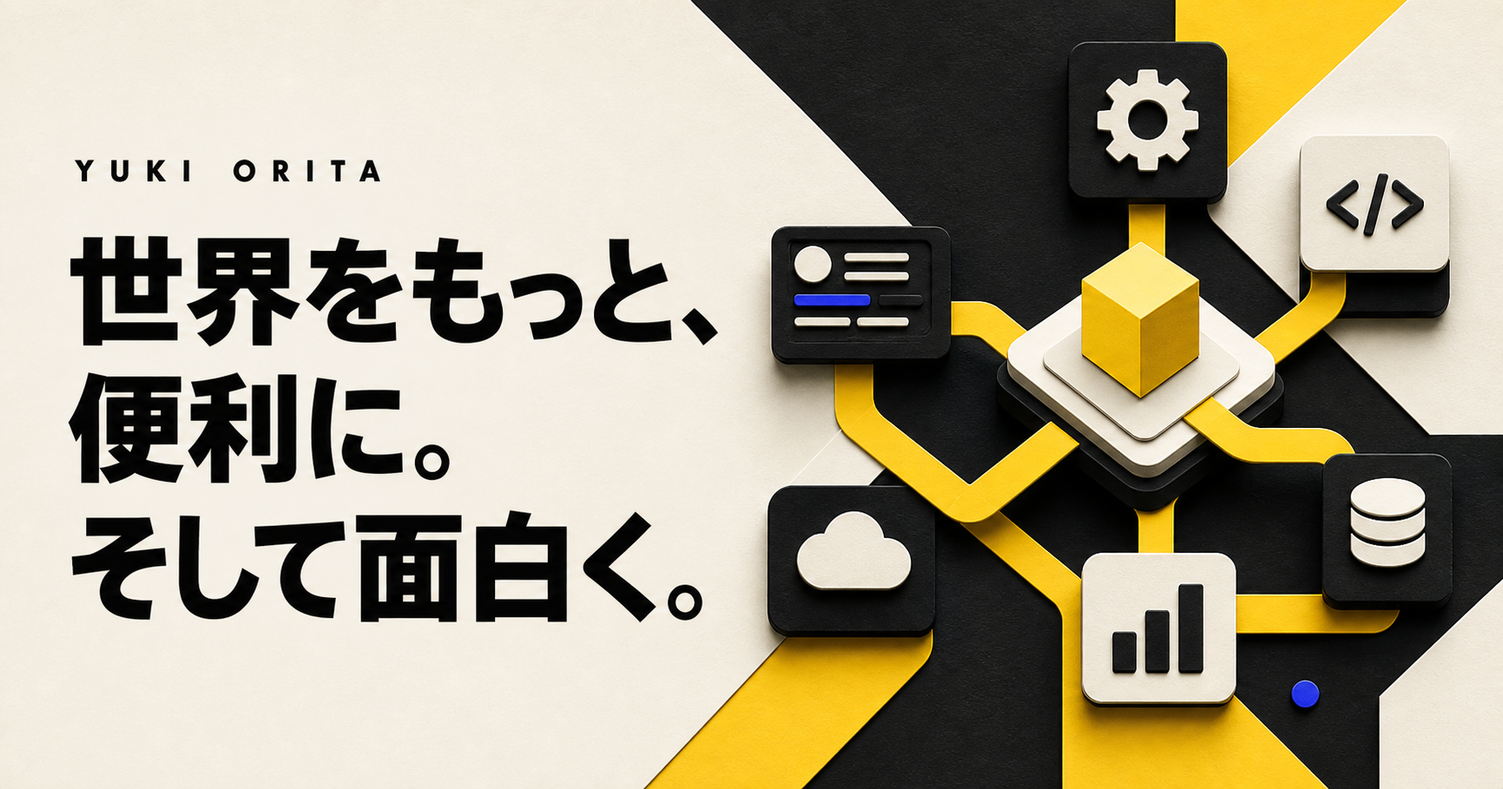
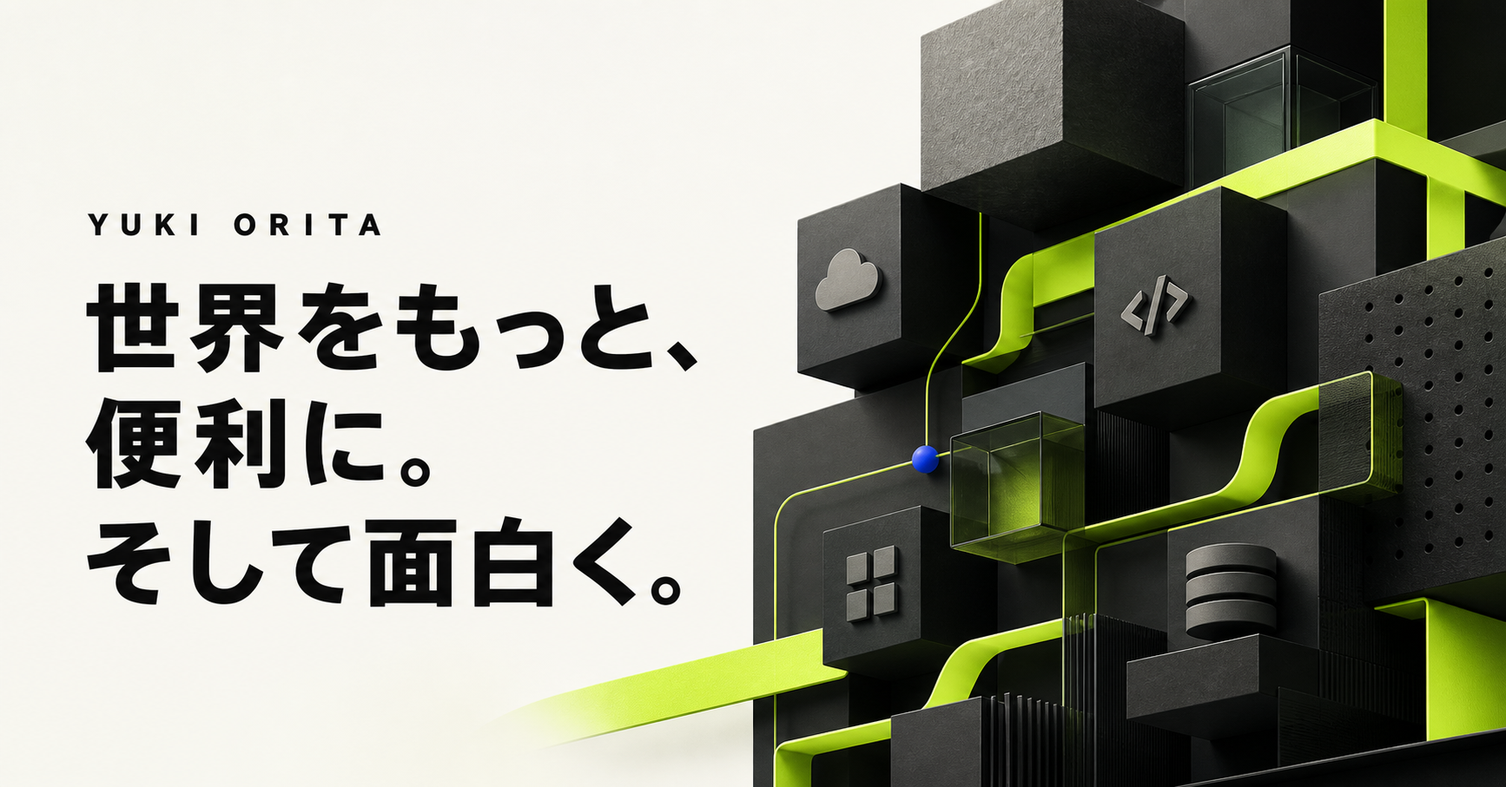
Add dark mode and localized lime theme

diff --git a/website/styles.css b/website/styles.css
@@ -1,6 +1,6 @@
-:root{--paper:#f2efe5;--ink:#151511;--yellow:#ffd21c;--blue:#315dff;--green:#8be04e;--line:rgba(21,21,17,.2);--pad:clamp(22px,4.2vw,68px)}
+:root{color-scheme:light dark;--paper:#f5f6f0;--ink:#151714;--yellow:#b8ff2c;--blue:#4c67ff;--green:#79d94b;--line:rgba(21,23,20,.2);--pad:clamp(22px,4.2vw,68px)}
 *{box-sizing:border-box}html{scroll-behavior:smooth;overflow-x:clip}body{margin:0;background:var(--paper);color:var(--ink);font-family:Arial,"Hiragino Kaku Gothic ProN","Yu Gothic",sans-serif;font-weight:600;letter-spacing:.01em;overflow-x:clip}a{color:inherit;text-decoration:none}img{max-width:100%;display:block}button{font:inherit}.section-pad{padding-left:var(--pad);padding-right:var(--pad)}
-.intro{position:fixed;inset:0;z-index:1000;background:white;display:grid;place-items:center;animation:intro-out .75s 2.3s forwards}.intro-logo{position:absolute;width:min(560px,72vw);filter:grayscale(1);opacity:0;animation:logo-in .8s .15s both}.intro-logo-en{animation:logo-en 1.2s .9s both}@keyframes logo-in{from{opacity:0;transform:translateY(70px);filter:blur(12px) grayscale(1)}to{opacity:1;transform:none;filter:blur(0) grayscale(1)}}@keyframes logo-en{0%{opacity:0;transform:translateY(35px)}35%,100%{opacity:1;transform:none}}@keyframes intro-out{to{opacity:0;visibility:hidden;pointer-events:none}}
+.intro{position:fixed;inset:0;z-index:1000;background:var(--paper);display:grid;place-items:center;opacity:1;visibility:visible;pointer-events:auto}.intro-light-brand{display:flex;align-items:center;gap:18px;opacity:0;transform:scale(.68)}.intro-light-brand span{width:72px;height:72px;border-radius:50%;background:var(--yellow);border:3px solid var(--ink);display:grid;place-items:center;font-size:19px;font-weight:900}.intro-light-brand strong{font-size:clamp(22px,4vw,52px);letter-spacing:.2em}.intro-dark-logo{display:none;width:min(620px,78vw);opacity:0;transform:scale(.68);mix-blend-mode:screen}.intro.is-running{animation:introDismiss .58s 1.9s cubic-bezier(.7,0,1,1) both}.intro.is-running .intro-light-brand{animation:introGrow 1.15s .12s cubic-bezier(.16,1,.3,1) both}.intro.is-finished{opacity:0;visibility:hidden;pointer-events:none}.intro-lock{overflow:hidden}@keyframes introGrow{0%{opacity:0;transform:scale(.68)}60%{opacity:1;transform:scale(1.045)}100%{opacity:1;transform:scale(1)}}@keyframes introDismiss{from{opacity:1}to{opacity:0;visibility:hidden;pointer-events:none}}
 .site-header{height:76px;padding:0 var(--pad);display:grid;grid-template-columns:1fr auto 1fr;align-items:center;gap:24px;border-bottom:1px solid var(--line);position:sticky;top:0;z-index:50;background:rgba(242,239,229,.93);backdrop-filter:blur(14px);transition:.25s}.site-header.scrolled{height:64px}.brand{display:inline-flex;align-items:center;gap:12px;font-weight:900;font-size:13px;letter-spacing:.17em;width:max-content}.brand-mark{width:40px;height:40px;display:grid;place-items:center;background:var(--yellow);border:2px solid var(--ink);border-radius:50%;font-size:12px;letter-spacing:-.05em}.site-header nav{display:flex;gap:clamp(18px,4vw,54px);font-size:12px}.site-header nav a{padding:8px 0;border-bottom:2px solid transparent}.site-header nav a:hover{border-color:var(--ink)}.pill{padding:13px 22px;border-radius:999px;font-size:12px}.pill-dark{background:var(--ink);color:white}.header-cta{justify-self:end}
 .hero{min-height:calc(100vh - 76px);display:grid;grid-template-columns:1.08fr 1fr;border-bottom:1px solid var(--ink)}.hero-copy{padding:clamp(70px,9vw,140px) var(--pad) 45px;display:flex;flex-direction:column;justify-content:center}.eyebrow{font-size:11px;letter-spacing:.19em;font-weight:900;display:flex;align-items:center;gap:12px}.eyebrow span{width:38px;border-top:3px solid var(--yellow)}.hero h1,.profile-title h1{font-size:clamp(46px,6.3vw,100px);line-height:.98;letter-spacing:-.075em;margin:30px 0 36px;font-weight:900}.hero h1 em,.profile-title h1 em,.projects h2 em,.closing h2 em{font-style:normal;color:transparent;-webkit-text-stroke:1.5px var(--ink)}.hero-lead{font-size:clamp(15px,1.25vw,20px);line-height:2}.hero-actions{display:flex;gap:28px;align-items:center;margin:30px 0 50px}.button{min-width:210px;padding:18px 24px;border:2px solid var(--ink);display:inline-flex;justify-content:space-between;align-items:center;font-size:13px;font-weight:900}.button-yellow{background:var(--yellow);box-shadow:6px 6px 0 var(--ink)}.button:hover{transform:translate(-2px,-2px);box-shadow:9px 9px 0 var(--ink)}.text-link{border-bottom:1px solid;padding:12px 0;font-size:13px}.hero-meta{display:flex;gap:42px;margin:auto 0 0}.hero-meta div{border-left:1px solid var(--line);padding-left:13px}.hero-meta dt{font-size:9px;letter-spacing:.16em}.hero-meta dd{margin:5px 0 0;font-size:12px}.hero-visual{position:relative;overflow:hidden;background:var(--yellow);min-height:680px}.hero-visual:before{content:"";position:absolute;width:55%;aspect-ratio:1;border:1px solid rgba(21,21,17,.35);border-radius:50%;top:-16%;right:-16%;z-index:1}.hero-visual img{width:100%;height:100%;object-fit:cover;filter:contrast(1.12);mix-blend-mode:multiply}.floating-card{position:absolute;background:var(--paper);border:2px solid var(--ink);padding:16px;box-shadow:8px 8px 0 var(--ink);z-index:2}.float-one{left:5%;top:11%;display:grid;grid-template-columns:auto 1fr;column-gap:10px}.float-one small{grid-column:2;color:#777;margin-top:5px}.status-dot{width:13px;height:13px;border-radius:50%;background:var(--yellow);border:1px solid;grid-row:1/3}.float-two{right:5%;bottom:8%;background:var(--yellow);transform:rotate(3deg)}.float-two b{font-size:38px;display:block}.float-two span{font-size:10px;letter-spacing:.14em}.ticker{background:var(--ink);color:var(--yellow);overflow:hidden;padding:14px 0;white-space:nowrap;font-size:11px;letter-spacing:.2em}.ticker div{animation:ticker 20s linear infinite}@keyframes ticker{to{transform:translateX(-50%)}}
 .jump-grid{display:grid;grid-template-columns:2fr 1fr 1fr;gap:2px;background:var(--ink);padding-top:90px;padding-bottom:110px}.jump-card{min-height:530px;position:relative;overflow:hidden;background:var(--paper);color:white}.jump-card:after{content:"";position:absolute;inset:0;background:linear-gradient(transparent 25%,rgba(0,0,0,.88))}.jump-card img{width:100%;height:100%;object-fit:cover;transition:.6s}.jump-card:hover img{transform:scale(1.04)}.jump-card>div{position:absolute;z-index:2;inset:auto 28px 28px}.jump-card p{font-size:10px;letter-spacing:.16em}.jump-card h2{font-size:clamp(25px,2.2vw,42px);line-height:1.16;margin:12px 0}.jump-no{position:absolute;z-index:3;top:22px;left:24px;border:1px solid white;border-radius:50%;width:42px;height:42px;display:grid;place-items:center;font-size:11px}.round-arrow{position:absolute;right:0;bottom:0;width:48px;height:48px;background:var(--yellow);color:var(--ink);border-radius:50%;display:grid;place-items:center}.jump-profile img{filter:grayscale(1) contrast(1.05)}.jump-news img{filter:saturate(.85)}
@@ -15,3 +15,23 @@
 @media(max-width:900px){.site-header{grid-template-columns:1fr auto}.site-header nav{display:none}.hero{grid-template-columns:1fr}.hero-copy{min-height:calc(100svh - 76px)}.hero-visual{min-height:70svh}.jump-grid{grid-template-columns:1fr 1fr}.jump-article{grid-column:1/-1}.projects-head{grid-template-columns:1fr;gap:20px}.project-grid{grid-template-columns:repeat(2,1fr)}.news-layout{grid-template-columns:1fr}.news-layout>img{max-width:420px}.profile-hero{grid-template-columns:1fr}.profile-statement{grid-template-columns:1fr}.profile-method{grid-template-columns:1fr}.social-strip{grid-template-columns:1fr}.social-strip a{border-left:0;border-top:1px solid}.facts-grid{grid-template-columns:1fr 1fr}.news-hero{grid-template-columns:1fr;padding-top:80px;padding-bottom:90px}.news-hero-art{max-width:620px}.news-contact{align-items:flex-start;flex-direction:column}}
 @media(max-width:600px){.site-header{height:64px}.brand span:last-child{display:none}.brand-mark{width:36px;height:36px}.header-cta{padding:11px 16px}.hero h1{font-size:46px}.hero-actions{align-items:flex-start;flex-direction:column}.hero-meta{gap:14px;justify-content:space-between}.hero-meta div{padding-left:8px}.hero-visual{min-height:560px}.jump-grid{grid-template-columns:1fr;padding-top:60px;padding-bottom:70px}.jump-article{grid-column:auto}.jump-card{min-height:440px}.projects-art{height:70vw}.project-grid{grid-template-columns:1fr}.project-card{min-height:290px}.projects-head{padding-top:70px}.news-layout>*{min-width:0}.news-layout>img,.news-list{width:100%;max-width:100%}.news-list article{grid-template-columns:68px 48px minmax(0,1fr) 26px;gap:7px}.news-list article p{display:none}.facts-grid{grid-template-columns:1fr}.fact-wide{grid-column:auto}.site-footer{align-items:flex-start;flex-direction:column;padding-top:55px;padding-bottom:55px}.social-strip{padding-left:0;padding-right:0}.profile-hero{padding-top:60px}.profile-title h1{font-size:52px}.profile-method{padding-top:80px;padding-bottom:85px}.news-hero{min-height:auto;padding-top:65px}.news-hero h1{font-size:54px}.archive-head{align-items:flex-start;flex-direction:column}.news-filters{width:100%}.news-filters button{flex:1}.news-list-full article{padding:27px 0}.news-contact{padding-top:70px;padding-bottom:75px}}
 @media(prefers-reduced-motion:reduce){*{scroll-behavior:auto!important;animation-duration:.01ms!important;animation-iteration-count:1!important;transition-duration:.01ms!important}.intro{display:none}.reveal{opacity:1;transform:none}}
+
+/* Lime system, language indicator, and theme-aware imagery */
+.header-tools{justify-self:end;display:flex;align-items:center;gap:12px}.locale-indicator{min-width:34px;height:34px;border:1px solid var(--ink);border-radius:999px;display:grid;place-items:center;font-size:9px;letter-spacing:.12em}.button-lime{background:var(--yellow);color:var(--ink);box-shadow:6px 6px 0 var(--ink)}.project-lime{background:var(--yellow)!important;color:var(--ink)!important}.projects-art picture{display:block;width:100%;height:100%}.projects-art picture img{width:100%;height:100%;object-fit:cover}.jump-article img{filter:hue-rotate(42deg) saturate(1.2)}
+.intro-dark-logo{-webkit-mask-image:radial-gradient(ellipse at center,#000 48%,rgba(0,0,0,.94) 61%,transparent 84%);mask-image:radial-gradient(ellipse at center,#000 48%,rgba(0,0,0,.94) 61%,transparent 84%)}
+html[lang="pt"] .hero h1{font-size:clamp(42px,5.3vw,84px)}html[lang="en"] .hero h1{font-size:clamp(44px,5.8vw,90px)}
+
+@media(prefers-color-scheme:dark){
+  body{background:#0d100d;color:#eef3e8}.intro{background:#080a08}.intro-light-brand{display:none}.intro-dark-logo{display:block}.intro.is-running .intro-dark-logo{animation:introGrow 1.15s .12s cubic-bezier(.16,1,.3,1) both}
+  .site-header{background:rgba(13,16,13,.92);border-color:rgba(238,243,232,.2)}.site-header nav a:hover{border-color:#eef3e8}.locale-indicator{border-color:#eef3e8}.pill-dark{background:var(--yellow);color:var(--ink)}
+  .hero{border-color:rgba(238,243,232,.6)}.hero h1 em,.profile-title h1 em,.closing h2 em{ -webkit-text-stroke-color:#eef3e8}.hero-meta div{border-color:rgba(238,243,232,.2)}.hero-visual{background:var(--yellow)}.floating-card{background:#151a14;color:#eef3e8;border-color:#eef3e8;box-shadow:8px 8px 0 #080a08}.float-one small{color:#b7beb2}.float-two{background:var(--yellow);color:var(--ink);border-color:var(--ink)}
+  .jump-grid{background:#070907}.jump-card{background:#151a14}.jump-article img{filter:hue-rotate(42deg) saturate(1.15) brightness(.78)}
+  .projects{background:#080a08}.projects-head>p{color:#b7beb2}.project-grid{background:#354032}.project-paper{background:#171c16!important;color:#eef3e8!important}.project-card:hover{box-shadow:0 16px 0 var(--yellow)}
+  .news{background:#10140f}.news-layout>img{border-color:#eef3e8}.news-list{border-color:#eef3e8}.news-list article{border-color:rgba(238,243,232,.2)}.news-list article p{color:#b7beb2}.news-more{border-color:rgba(238,243,232,.45)}
+  #dialog-content{background:#121612;color:#eef3e8;border-color:#eef3e8;box-shadow:14px 14px 0 var(--yellow)}.dialog-close{color:#eef3e8}
+  .profile-hero{border-color:#eef3e8}.profile-facts{background:#080a08}.fact{background:#151a14}.fact-wide{background:var(--yellow);color:var(--ink)}.profile-statement>p{color:#eef3e8}.profile-method{background:#0d100d}.method-list{border-color:#eef3e8}.method-list li{border-color:rgba(238,243,232,.2)}.method-list p{color:#b7beb2}
+  .news-hero{border-color:#eef3e8}.news-hero h1 em{-webkit-text-stroke-color:#eef3e8}.news-archive{background:#0d100d}.news-filters button{color:#eef3e8;border-color:#eef3e8}.news-filters button.active,.news-filters button:hover{background:var(--yellow);color:var(--ink)}.news-contact{background:#1b2417}
+  .site-footer{background:#070907}.button{border-color:var(--ink)}
+}
+
+@media(max-width:600px){.header-tools{gap:7px}.locale-indicator{min-width:30px;height:30px}.intro-light-brand{gap:12px}.intro-light-brand span{width:56px;height:56px}.intro-light-brand strong{font-size:20px;letter-spacing:.13em}html[lang="pt"] .hero h1{font-size:39px}html[lang="en"] .hero h1{font-size:42px}}

diff --git a/website/i18n.js b/website/i18n.js
@@ -1,0 +1,63 @@
+(function () {
+  const supported = ['ja', 'en', 'zh', 'pt'];
+  const requested = new URLSearchParams(location.search).get('lang')?.toLowerCase().split('-')[0];
+  const detected = (supported.includes(requested) ? requested : (navigator.languages || [navigator.language || 'en'])
+    .map(value => value.toLowerCase().split('-')[0])
+    .find(value => supported.includes(value))) || 'en';
+  window.SITE_LANG = detected;
+  window.siteText = value => typeof value === 'string' ? value : (value?.[window.SITE_LANG] || value?.en || value?.ja || '');
+
+  const common = {
+    ja:['Projects','News','Profile','Home ←'], en:['Projects','News','Profile','Home ←'],
+    zh:['项目','动态','简介','首页 ←'], pt:['Projetos','Notícias','Perfil','Início ←']
+  };
+  const pages = {
+    home:{
+      ja:{hero:'世界をもっと、<em>便利に。</em><br>そして面白く。',lead:'誰もがその便利さ、面白さにふれる機会があるように。<br>そんな世界を目指して、開発をしています。',projects:'プロジェクトを見る <span>→</span>',profile:'プロフィール <span>↘</span>',j:['考えたことを、<br>言葉にする。','作っている人を、<br>もっと知る。','新しい動きを、<br>ここから。'],ptitle:'つくったもの、<br><em>育てているもの。</em>',plead:'音楽、学習、AI、ファイル管理。日常の小さな不便を見つけ、使える形までつくります。カードを選ぶと詳細が開きます。',news:'お知らせ',all:'すべてのお知らせを見る <span>→</span>',closing:'次の「便利」と「面白い」を、<br><em>つくり続ける。</em>'},
+      en:{hero:'Make the world more <em>useful.</em><br>And more interesting.',lead:'I build so that everyone has a chance to experience<br>what technology can make easier and more fun.',projects:'View projects <span>→</span>',profile:'Profile <span>↘</span>',j:['Turning ideas<br>into words.','Meet the person<br>behind the work.','Follow what is<br>happening now.'],ptitle:'Things I made.<br><em>Things I keep growing.</em>',plead:'Music, learning, AI, and file management. I find small everyday frictions and turn them into products you can actually use.',news:'News',all:'View all news <span>→</span>',closing:'Keep building the next<br><em>useful and interesting thing.</em>'},
+      zh:{hero:'让世界更<em>便利。</em><br>也更有趣。',lead:'让每个人都有机会感受到科技带来的便利与乐趣。<br>我正朝着这样的世界持续开发。',projects:'查看项目 <span>→</span>',profile:'个人简介 <span>↘</span>',j:['把思考，<br>写成文字。','认识作品<br>背后的开发者。','从这里了解<br>最新动态。'],ptitle:'已经完成的，<br><em>持续成长的。</em>',plead:'音乐、学习、AI 与文件管理。我从日常的小麻烦出发，把想法做成真正可用的产品。',news:'最新动态',all:'查看全部动态 <span>→</span>',closing:'继续创造下一个<br><em>便利与有趣。</em>'},
+      pt:{hero:'Um mundo mais <em>prático.</em><br>E mais interessante.',lead:'Desenvolvo para que todos possam experimentar<br>mais praticidade e diversão através da tecnologia.',projects:'Ver projetos <span>→</span>',profile:'Perfil <span>↘</span>',j:['Transformando ideias<br>em palavras.','Conheça quem está<br>por trás dos projetos.','Acompanhe as<br>novidades por aqui.'],ptitle:'O que criei.<br><em>O que continuo melhorando.</em>',plead:'Música, aprendizado, IA e arquivos. Encontro pequenos atritos do cotidiano e os transformo em produtos úteis.',news:'Notícias',all:'Ver todas as notícias <span>→</span>',closing:'Continuar criando o próximo<br><em>prático e interessante.</em>'}
+    },
+    profile:{
+      ja:{title:'好奇心を、<br><em>動くものに。</em>',lead:'日常で感じた不便や「こうだったら面白い」を、アプリとして形にしています。',from:'広島県',favorite:'焼きそば',quote:'「新しい」は、遠くにあるものではなく、<em>手を動かした先にある。</em>',statement:'ソフトウェアが難しさを引き受け、人には便利さと面白さが残る。そんなプロダクトを、公開し、改善し続けます。',method:'小さく始めて、<br>使えるところまで。',steps:[['見つける','毎日の中の面倒や、まだ形になっていない面白さを見つけます。'],['つくる','まず動くものを作り、実際に使いながら必要な形へ整えます。'],['ひらく','できる限り公開し、フィードバックとともに改善を続けます。']]},
+      en:{title:'Turn curiosity<br><em>into something real.</em>',lead:'I turn everyday friction and “what if this were more fun?” into working apps.',from:'Hiroshima, Japan',favorite:'Yakisoba',quote:'“New” is not far away.<br><em>It appears when you start building.</em>',statement:'Software should carry the complexity so people are left with usefulness and delight. I publish, learn, and keep improving.',method:'Start small.<br>Build until it is useful.',steps:[['Notice','Find everyday friction and interesting ideas that have not yet taken shape.'],['Build','Make the smallest working version, use it, and shape what truly matters.'],['Open','Share whenever possible, listen to feedback, and keep improving.']]},
+      zh:{title:'把好奇心，<br><em>变成可以使用的东西。</em>',lead:'我把日常中的不便与“这样会不会更有趣”做成真正可用的应用。',from:'日本广岛县',favorite:'日式炒面',quote:'“新”并不遥远，<br><em>它就在动手之后。</em>',statement:'让软件承担复杂，把便利与乐趣留给人。我会公开作品，并不断改进。',method:'从小处开始，<br>做到真正可用。',steps:[['发现','发现日常的不便，以及还没有成形的有趣想法。'],['制作','先做出能运行的版本，在实际使用中找到真正重要的部分。'],['开放','尽可能公开，并根据反馈持续改进。']]},
+      pt:{title:'Transformar curiosidade<br><em>em algo que funciona.</em>',lead:'Transformo incômodos do dia a dia e ideias interessantes em aplicativos reais.',from:'Hiroshima, Japão',favorite:'Yakisoba',quote:'O “novo” não está longe.<br><em>Ele aparece quando começamos a criar.</em>',statement:'O software deve carregar a complexidade e deixar praticidade e encanto para as pessoas. Publico, aprendo e continuo melhorando.',method:'Começar pequeno.<br>Construir até ser útil.',steps:[['Perceber','Encontrar atritos do cotidiano e ideias interessantes que ainda não ganharam forma.'],['Criar','Fazer uma versão funcional, usar e lapidar o que realmente importa.'],['Abrir','Compartilhar quando possível, ouvir feedback e continuar melhorando.']]}
+    },
+    news:{
+      ja:{title:'新しい動きを、<br><em>ここから。</em>',lead:'アプリの公開、アップデート、サイトからのお知らせをまとめています。',archive:'すべてのお知らせ',empty:'該当するお知らせはありません。',contact:'最新の活動は、<br>Xでも発信しています。'},
+      en:{title:'What is new,<br><em>all in one place.</em>',lead:'Releases, product updates, and announcements from across my work.',archive:'All updates',empty:'No updates in this category.',contact:'Follow the latest work<br>on X as well.'},
+      zh:{title:'最新动态，<br><em>从这里开始。</em>',lead:'集中查看应用发布、产品更新与网站公告。',archive:'全部动态',empty:'此分类暂无动态。',contact:'也可以在 X 上<br>关注最新进展。'},
+      pt:{title:'Tudo o que há de novo,<br><em>em um só lugar.</em>',lead:'Lançamentos, atualizações de produtos e anúncios.',archive:'Todas as notícias',empty:'Nenhuma notícia nesta categoria.',contact:'Acompanhe as novidades<br>também no X.'}
+    }
+  };
+  const html=(s,v)=>{const n=document.querySelector(s);if(n&&v)n.innerHTML=v};
+  const text=(s,v)=>{const n=document.querySelector(s);if(n&&v)n.textContent=v};
+  const metadata={
+    home:{ja:['YO — YUKI ORITA','アプリ、記事、プロフィールをまとめた折田侑のホームページ。'],en:['YO — YUKI ORITA','Yuki Orita’s home for apps, articles, news, and profile.'],zh:['YO — YUKI ORITA','折田侑的应用、文章、动态与个人简介。'],pt:['YO — YUKI ORITA','Aplicativos, artigos, notícias e perfil de Yuki Orita.']},
+    profile:{ja:['Profile — YUKI ORITA','折田侑のプロフィールと、ものづくりへの考え方。'],en:['Profile — YUKI ORITA','Yuki Orita’s profile and approach to making useful products.'],zh:['个人简介 — YUKI ORITA','折田侑的个人简介与产品创作理念。'],pt:['Perfil — YUKI ORITA','Perfil de Yuki Orita e sua abordagem à criação de produtos.']},
+    news:{ja:['News — YUKI ORITA','アプリの公開、アップデート、サイトからのお知らせ。'],en:['News — YUKI ORITA','Product releases, updates, and announcements.'],zh:['动态 — YUKI ORITA','应用发布、产品更新与网站公告。'],pt:['Notícias — YUKI ORITA','Lançamentos, atualizações de produtos e anúncios.']}
+  };
+
+  function applyLanguage(lang=detected){
+    window.SITE_LANG=supported.includes(lang)?lang:detected;
+    document.documentElement.lang=window.SITE_LANG==='zh'?'zh-CN':window.SITE_LANG;
+    const c=common[window.SITE_LANG];
+    document.querySelectorAll('.site-header nav a').forEach((n,i)=>n.textContent=c[i]);
+    if(document.body.classList.contains('profile-page')||document.body.classList.contains('news-page')) text('.header-cta',c[3]);
+    text('[data-locale-indicator]',window.SITE_LANG.toUpperCase());
+    const page=document.body.classList.contains('profile-page')?'profile':document.body.classList.contains('news-page')?'news':'home';
+    const t=pages[page][window.SITE_LANG];
+    const meta=metadata[page][window.SITE_LANG];document.title=meta[0];document.querySelector('meta[name="description"]')?.setAttribute('content',meta[1]);
+    if(page==='home'){
+      html('.hero h1',t.hero);html('.hero-lead',t.lead);html('.hero-actions .button',t.projects);html('.hero-actions .text-link',t.profile);
+      document.querySelectorAll('.jump-card h2').forEach((n,i)=>n.innerHTML=t.j[i]);html('.projects-head h2',t.ptitle);text('.projects-head>p',t.plead);text('.section-title h2',t.news);html('.news-more',t.all);html('.closing h2',t.closing);
+    }else if(page==='profile'){
+      html('.profile-title h1',t.title);text('.profile-title>p:last-child',t.lead);text('.fact:nth-child(3) strong',t.from);text('.fact:nth-child(4) strong',t.favorite);html('.profile-statement blockquote',t.quote);text('.profile-statement>div p',t.statement);html('.method-title h2',t.method);
+      document.querySelectorAll('.method-list li').forEach((li,i)=>{li.querySelector('h3').textContent=t.steps[i][0];li.querySelector('p').textContent=t.steps[i][1]});
+    }else{html('.news-hero h1',t.title);text('.news-hero-copy>p:last-child',t.lead);text('.archive-head h2',t.archive);text('.news-empty',t.empty);html('.news-contact h2',t.contact)}
+    window.dispatchEvent(new CustomEvent('site-language-change',{detail:{lang:window.SITE_LANG}}));
+  }
+  window.applySiteLanguage=applyLanguage;
+  document.addEventListener('DOMContentLoaded',()=>applyLanguage(detected));
+})();

diff --git a/website/content.js b/website/content.js
@@ -1,25 +1,23 @@
-// サービスを追加するときは、この配列へ同じ形式の項目を追加してください。
-// name（名称）/ url / code（2文字）/ description（約26文字）/ platforms / color
+// サービスとお知らせは、各言語を同じ項目内にまとめて管理します。
 window.SITE_CONTENT = {
   projects: [
-    {name:'Awasero Music',url:'https://awasero-music.pages.dev/',code:'AM',description:'鼻歌を編集できる楽譜とMIDIへ変換。',platforms:['macOS'],color:'yellow'},
-    {name:'EasyRoo',url:'https://easyroo.pages.dev/',code:'ER',description:'ローカルLLMで日々の作業を自動実行。',platforms:['macOS'],color:'blue'},
-    {name:'Kizi',url:'https://kizi.pages.dev/',code:'KZ',description:'開発やAIについて発信する記事メディア。',platforms:['Web'],color:'paper'},
-    {name:'MCS Manager',url:'https://mcs-manager.pages.dev/',code:'MC',description:'Minecraftサーバーを一か所で管理。',platforms:['macOS'],color:'green'},
-    {name:'Media Master',url:'https://media-master-9o5.pages.dev/',code:'MM',description:'写真・音楽・書類を一つにまとめて管理。',platforms:['Android'],color:'blue'},
-    {name:'MLXBar',url:'https://mlx-bar.pages.dev/',code:'MX',description:'MacのローカルAIをメニューバーから。',platforms:['macOS'],color:'paper'},
-    {name:'Pine Chat',url:'https://pinechat.pages.dev/',code:'PC',description:'自立思考型のローカルAIエージェント。',platforms:['macOS'],color:'green'},
-    {name:'Tango pro',url:'https://tango-pro.pages.dev/',code:'TP',description:'自分のCSVで続けられる単語帳アプリ。',platforms:['Android','macOS'],color:'yellow'},
-    {name:'Vocello JP',url:'https://vocello-jp.pages.dev/',code:'VO',description:'Macで完結する日本語AI音声スタジオ。',platforms:['macOS'],color:'blue'},
-    {name:'Volume Routine',url:'https://volume-routine.pages.dev/',code:'VR',description:'時間とWi-FiでAndroid音量を自動化。',platforms:['Android'],color:'yellow'},
-    {name:'WAKARU',url:'https://wakaru.pages.dev/',code:'WK',description:'資料を根拠つきで「わかる」に変える。',platforms:['macOS'],color:'paper'}
+    {name:'Awasero Music',url:'https://awasero-music.pages.dev/',code:'AM',description:{ja:'鼻歌を編集できる楽譜とMIDIへ変換。',en:'Turn humming into editable scores and MIDI.',zh:'将哼唱转换为可编辑乐谱与 MIDI。',pt:'Transforme melodias cantadas em partituras e MIDI.'},platforms:['macOS'],color:'lime'},
+    {name:'EasyRoo',url:'https://easyroo.pages.dev/',code:'ER',description:{ja:'ローカルLLMで日々の作業を自動実行。',en:'Automate daily work with a local LLM.',zh:'使用本地 LLM 自动执行日常任务。',pt:'Automatize tarefas diárias com um LLM local.'},platforms:['macOS'],color:'blue'},
+    {name:'Kizi',url:'https://kizi.pages.dev/',code:'KZ',description:{ja:'開発やAIについて発信する記事メディア。',en:'Articles about software development and AI.',zh:'分享软件开发与 AI 的文章媒体。',pt:'Artigos sobre desenvolvimento e inteligência artificial.'},platforms:['Web'],color:'paper'},
+    {name:'MCS Manager',url:'https://mcs-manager.pages.dev/',code:'MC',description:{ja:'Minecraftサーバーを一か所で管理。',en:'Manage Minecraft servers from one place.',zh:'在一个界面管理 Minecraft 服务器。',pt:'Gerencie servidores de Minecraft em um só lugar.'},platforms:['macOS'],color:'green'},
+    {name:'Media Master',url:'https://media-master-9o5.pages.dev/',code:'MM',description:{ja:'写真・音楽・書類を一つにまとめて管理。',en:'Manage photos, music, and documents together.',zh:'统一管理照片、音乐与文档。',pt:'Gerencie fotos, músicas e documentos juntos.'},platforms:['Android'],color:'blue'},
+    {name:'MLXBar',url:'https://mlx-bar.pages.dev/',code:'MX',description:{ja:'MacのローカルAIをメニューバーから。',en:'Local AI for Mac, right from the menu bar.',zh:'从菜单栏使用 Mac 本地 AI。',pt:'IA local no Mac, direto pela barra de menus.'},platforms:['macOS'],color:'paper'},
+    {name:'Pine Chat',url:'https://pinechat.pages.dev/',code:'PC',description:{ja:'自立思考型のローカルAIエージェント。',en:'An autonomous local AI agent for macOS.',zh:'自主思考型本地 AI 智能体。',pt:'Um agente de IA local e autônomo.'},platforms:['macOS'],color:'green'},
+    {name:'Tango pro',url:'https://tango-pro.pages.dev/',code:'TP',description:{ja:'自分のCSVで続けられる単語帳アプリ。',en:'A vocabulary app built around your own CSV.',zh:'使用自己的 CSV 持续学习单词。',pt:'Um app de vocabulário feito para o seu CSV.'},platforms:['Android','macOS'],color:'lime'},
+    {name:'Vocello JP',url:'https://vocello-jp.pages.dev/',code:'VO',description:{ja:'Macで完結する日本語AI音声スタジオ。',en:'A Japanese AI voice studio that stays on Mac.',zh:'完全在 Mac 本地运行的日语 AI 语音工作室。',pt:'Estúdio de voz japonesa com IA, local no Mac.'},platforms:['macOS'],color:'blue'},
+    {name:'Volume Routine',url:'https://volume-routine.pages.dev/',code:'VR',description:{ja:'時間とWi-FiでAndroid音量を自動化。',en:'Automate Android volume by time and Wi-Fi.',zh:'按时间和 Wi-Fi 自动调整 Android 音量。',pt:'Automatize o volume do Android por hora e Wi-Fi.'},platforms:['Android'],color:'lime'},
+    {name:'WAKARU',url:'https://wakaru.pages.dev/',code:'WK',description:{ja:'資料を根拠つきで「わかる」に変える。',en:'Turn documents into cited understanding.',zh:'将资料转化为带有依据的理解。',pt:'Transforme documentos em entendimento com fontes.'},platforms:['macOS'],color:'paper'}
   ],
-  // お知らせは新しいものを上に追加してください。
   news: [
-    {date:'2026.08.19',tag:'SITE',title:'公式ポートフォリオを公開しました。',summary:'制作したアプリ、記事、プロフィールを一つの場所から見られる公式サイトを公開しました。'},
-    {date:'2026.08.18',tag:'APP',title:'Volume Routine v1.1.0 を公開しました。',summary:'時間とWi-FiをきっかけにAndroidの音量を自動調整する最新版です。',url:'https://volume-routine.pages.dev/'},
-    {date:'2026.08.17',tag:'APP',title:'EasyRoo v1.0 の配布を開始しました。',summary:'ローカルLLMを使って、決めた作業を決めた時間に進めるmacOSアプリです。',url:'https://easyroo.pages.dev/'},
-    {date:'2026.08.15',tag:'APP',title:'WAKARUの公式ページを公開しました。',summary:'PDFや音声、動画などの資料を、根拠つきで理解するためのローカルAIアシスタントです。',url:'https://wakaru.pages.dev/'},
-    {date:'2026.08.12',tag:'APP',title:'Tango pro v2.0.0 を公開しました。',summary:'CSVから単語帳を作り、4択とタイピングで学べるAndroid・macOSアプリです。',url:'https://tango-pro.pages.dev/'}
+    {date:'2026.08.19',tag:'SITE',title:{ja:'公式ポートフォリオを公開しました。',en:'The official portfolio is now live.',zh:'官方作品集网站已上线。',pt:'O portfólio oficial já está no ar.'},summary:{ja:'制作したアプリ、記事、プロフィールを一つの場所から見られる公式サイトを公開しました。',en:'A new home for my apps, articles, updates, and profile.',zh:'在一个网站中浏览我开发的应用、文章、动态与个人资料。',pt:'Um novo espaço para meus apps, artigos, novidades e perfil.'}},
+    {date:'2026.08.18',tag:'APP',title:{ja:'Volume Routine v1.1.0 を公開しました。',en:'Volume Routine v1.1.0 is available.',zh:'Volume Routine v1.1.0 已发布。',pt:'Volume Routine v1.1.0 está disponível.'},summary:{ja:'時間とWi-FiをきっかけにAndroidの音量を自動調整する最新版です。',en:'The latest release automates Android volume using time and Wi-Fi triggers.',zh:'通过时间与 Wi-Fi 条件自动调整 Android 音量。',pt:'Automatiza o volume do Android usando horário e Wi-Fi.'},url:'https://volume-routine.pages.dev/'},
+    {date:'2026.08.17',tag:'APP',title:{ja:'EasyRoo v1.0 の配布を開始しました。',en:'EasyRoo v1.0 is now available.',zh:'EasyRoo v1.0 现已发布。',pt:'EasyRoo v1.0 já está disponível.'},summary:{ja:'ローカルLLMを使って、決めた作業を決めた時間に進めるmacOSアプリです。',en:'A macOS app that runs scheduled workflows with a local LLM.',zh:'使用本地 LLM 按计划执行工作流的 macOS 应用。',pt:'Um app para macOS que executa rotinas com um LLM local.'},url:'https://easyroo.pages.dev/'},
+    {date:'2026.08.15',tag:'APP',title:{ja:'WAKARUの公式ページを公開しました。',en:'The WAKARU website is now live.',zh:'WAKARU 官方网站已上线。',pt:'O site oficial do WAKARU já está no ar.'},summary:{ja:'PDFや音声、動画などの資料を、根拠つきで理解するためのローカルAIアシスタントです。',en:'A local AI assistant for understanding PDFs, audio, video, and more with citations.',zh:'借助本地 AI 和引用依据理解 PDF、音频、视频等资料。',pt:'Assistente local de IA para entender PDFs, áudio e vídeo com citações.'},url:'https://wakaru.pages.dev/'},
+    {date:'2026.08.12',tag:'APP',title:{ja:'Tango pro v2.0.0 を公開しました。',en:'Tango pro v2.0.0 is available.',zh:'Tango pro v2.0.0 已发布。',pt:'Tango pro v2.0.0 está disponível.'},summary:{ja:'CSVから単語帳を作り、4択とタイピングで学べるAndroid・macOSアプリです。',en:'Build vocabulary books from CSV and study with multiple choice or typing.',zh:'从 CSV 创建单词本，并通过选择题或输入练习学习。',pt:'Crie vocabulários via CSV e estude com alternativas ou digitação.'},url:'https://tango-pro.pages.dev/'}
   ]
 };

diff --git a/website/app.js b/website/app.js
@@ -1,47 +1,84 @@
 const reduceMotion = matchMedia('(prefers-reduced-motion: reduce)').matches;
+const darkMode = matchMedia('(prefers-color-scheme: dark)');
 
-document.querySelectorAll('.reveal').forEach((el) => {
+function initIntro() {
+  const intro = document.querySelector('.intro');
+  if (!intro) return;
+  const finish = () => {
+    if (intro.dataset.finished) return;
+    intro.dataset.finished = 'true';
+    intro.classList.add('is-finished');
+    document.body.classList.remove('intro-lock');
+  };
+  if (reduceMotion) { finish(); return; }
+  document.body.classList.add('intro-lock');
+  const logo = intro.querySelector('[data-intro-dark-logo]');
+  if (logo) logo.src = ['ja','zh'].includes(window.SITE_LANG) ? 'logo-JP.jpg' : 'logo-EN.jpg';
+  const ready = darkMode.matches && logo ? Promise.race([logo.decode().catch(()=>{}), new Promise(r=>setTimeout(r,600))]) : Promise.resolve();
+  ready.then(() => requestAnimationFrame(() => requestAnimationFrame(() => intro.classList.add('is-running'))));
+  intro.addEventListener('animationend', event => { if (event.target === intro && event.animationName === 'introDismiss') finish(); });
+  setTimeout(finish, 2900);
+}
+initIntro();
+
+document.querySelectorAll('.reveal').forEach(el => {
   if (reduceMotion) return el.classList.add('visible');
   new IntersectionObserver(([entry], observer) => {
     if (entry.isIntersecting) { entry.target.classList.add('visible'); observer.disconnect(); }
-  }, { threshold: .12 }).observe(el);
+  }, {threshold:.12}).observe(el);
 });
 
+const labels = {
+  ja:{open:'OPEN ↗',project:'PROJECT',visit:'公式サイトへ',related:'関連ページを開く'},
+  en:{open:'OPEN ↗',project:'PROJECT',visit:'Visit website',related:'Open related page'},
+  zh:{open:'打开 ↗',project:'项目',visit:'访问官方网站',related:'打开相关页面'},
+  pt:{open:'ABRIR ↗',project:'PROJETO',visit:'Visitar site',related:'Abrir página relacionada'}
+};
+const label = key => labels[window.SITE_LANG || 'en'][key];
 const grid = document.querySelector('#project-grid');
 const dialog = document.querySelector('#project-dialog');
-if (grid && window.SITE_CONTENT) {
-  SITE_CONTENT.projects.forEach((project, index) => {
+
+function renderProjects() {
+  if (!grid || !window.SITE_CONTENT) return;
+  grid.innerHTML = '';
+  SITE_CONTENT.projects.forEach((project,index) => {
+    const description = window.siteText(project.description);
     const card = document.createElement('button');
     card.className = `project-card project-${project.color}`;
-    card.innerHTML = `<span class="project-count">${String(index + 1).padStart(2,'0')}</span><span class="project-icon">${project.code}</span><span class="project-name">${project.name}</span><span class="project-desc">${project.description}</span><span class="platforms">${project.platforms.map(p => `<i>${p}</i>`).join('')}</span><span class="project-open">OPEN ↗</span>`;
-    card.addEventListener('click', () => {
-      document.querySelector('#dialog-content').innerHTML = `<span class="dialog-icon project-${project.color}">${project.code}</span><p>PROJECT / ${String(index + 1).padStart(2,'0')}</p><h2>${project.name}</h2><p class="dialog-desc">${project.description}</p><div class="platforms">${project.platforms.map(p => `<i>${p}</i>`).join('')}</div><a class="button button-yellow" href="${project.url}" target="_blank" rel="noreferrer">公式サイトへ <span>↗</span></a>`;
+    card.innerHTML = `<span class="project-count">${String(index+1).padStart(2,'0')}</span><span class="project-icon">${project.code}</span><span class="project-name">${project.name}</span><span class="project-desc">${description}</span><span class="platforms">${project.platforms.map(p=>`<i>${p}</i>`).join('')}</span><span class="project-open">${label('open')}</span>`;
+    card.addEventListener('click',()=>{
+      document.querySelector('#dialog-content').innerHTML = `<span class="dialog-icon project-${project.color}">${project.code}</span><p>${label('project')} / ${String(index+1).padStart(2,'0')}</p><h2>${project.name}</h2><p class="dialog-desc">${description}</p><div class="platforms">${project.platforms.map(p=>`<i>${p}</i>`).join('')}</div><a class="button button-lime" href="${project.url}" target="_blank" rel="noreferrer">${label('visit')} <span>↗</span></a>`;
       dialog.showModal();
     });
     grid.append(card);
   });
-  document.querySelector('.dialog-close').addEventListener('click', () => dialog.close());
-  dialog.addEventListener('click', (event) => { if (event.target === dialog) dialog.close(); });
+}
+renderProjects();
+if (dialog) {
+  document.querySelector('.dialog-close').addEventListener('click',()=>dialog.close());
+  dialog.addEventListener('click',event=>{if(event.target===dialog)dialog.close()});
 }
 
 const newsList = document.querySelector('#news-list');
-const renderNews = (filter = 'ALL') => {
+let activeNewsFilter = 'ALL';
+function renderNews(filter=activeNewsFilter) {
   if (!newsList || !window.SITE_CONTENT) return;
+  activeNewsFilter = filter;
   const limit = Number(newsList.dataset.limit || Infinity);
-  const items = SITE_CONTENT.news.filter(item => filter === 'ALL' || item.tag === filter).slice(0, limit);
-  newsList.innerHTML = '';
-  items.forEach(item => {
-    const article = document.createElement('article');
-    article.innerHTML = `<time>${item.date}</time><span>${item.tag}</span><div><h3>${item.title}</h3>${item.summary ? `<p>${item.summary}</p>` : ''}</div>${item.url ? `<a href="${item.url}" target="_blank" rel="noreferrer" aria-label="${item.title}の関連ページを開く">↗</a>` : '<i>—</i>'}`;
+  const items = SITE_CONTENT.news.filter(item=>filter==='ALL'||item.tag===filter).slice(0,limit);
+  newsList.innerHTML='';
+  items.forEach(item=>{
+    const title=window.siteText(item.title), summary=window.siteText(item.summary);
+    const article=document.createElement('article');
+    article.innerHTML=`<time>${item.date}</time><span>${item.tag}</span><div><h3>${title}</h3>${summary?`<p>${summary}</p>`:''}</div>${item.url?`<a href="${item.url}" target="_blank" rel="noreferrer" aria-label="${title}: ${label('related')}">↗</a>`:'<i>—</i>'}`;
     newsList.append(article);
   });
-  document.querySelector('.news-empty')?.toggleAttribute('hidden', items.length > 0);
-};
+  document.querySelector('.news-empty')?.toggleAttribute('hidden',items.length>0);
+}
 renderNews();
-document.querySelectorAll('.news-filters button').forEach(button => button.addEventListener('click', () => {
-  document.querySelectorAll('.news-filters button').forEach(item => item.classList.remove('active'));
-  button.classList.add('active');
-  renderNews(button.dataset.filter);
+document.querySelectorAll('.news-filters button').forEach(button=>button.addEventListener('click',()=>{
+  document.querySelectorAll('.news-filters button').forEach(item=>item.classList.remove('active'));
+  button.classList.add('active');renderNews(button.dataset.filter);
 }));
-
-window.addEventListener('scroll', () => document.querySelector('.site-header')?.classList.toggle('scrolled', scrollY > 20), {passive:true});
+window.addEventListener('site-language-change',()=>{renderProjects();renderNews()});
+window.addEventListener('scroll',()=>document.querySelector('.site-header')?.classList.toggle('scrolled',scrollY>20),{passive:true});

diff --git a/website/index.html b/website/index.html
@@ -3,7 +3,8 @@
 <head>
   <meta charset="utf-8">
   <meta name="viewport" content="width=device-width, initial-scale=1">
-  <meta name="theme-color" content="#ffd21c">
+  <meta name="theme-color" content="#b8ff2c" media="(prefers-color-scheme: light)">
+  <meta name="theme-color" content="#0d100d" media="(prefers-color-scheme: dark)">
   <meta name="description" content="折田悠希（Yuki_Orita）の公式ポートフォリオ。開発したアプリ、記事、お知らせ、プロフィールを紹介します。">
   <meta name="keywords" content="折田悠希,oriyu90,おりたゆうき,Yuki_Orita,MD Viewer Pro,Yuki,Orita,RIZI,rizi-jp,awasero-music,easyroo,kizi,mcs-manager,media-master-9o5,mlx-bar,pinechat,tango-pro,vocello-jp,volume-routine,wakaru">
   <meta property="og:title" content="Yuki Orita — Official">
@@ -15,13 +16,14 @@
   <meta name="twitter:image" content="https://rizi-jp.pages.dev/assets/og.png">
   <title>Yuki Orita — Official</title>
   <link rel="stylesheet" href="styles.css">
+  <script src="i18n.js" defer></script>
   <script src="content.js" defer></script>
   <script src="app.js" defer></script>
 </head>
 <body>
   <div class="intro" aria-hidden="true">
-    <img class="intro-logo intro-logo-jp" src="logo-JP.jpg" alt="">
-    <img class="intro-logo intro-logo-en" src="logo-EN.jpg" alt="">
+    <div class="intro-light-brand"><span>YO</span><strong>YUKI ORITA</strong></div>
+    <img class="intro-dark-logo" data-intro-dark-logo src="logo-EN.jpg" alt="">
   </div>
 
   <header class="site-header">
@@ -29,7 +31,7 @@
     <nav aria-label="メインナビゲーション">
       <a href="#projects">Projects</a><a href="news.html">News</a><a href="profile.html">Profile</a>
     </nav>
-    <a class="pill pill-dark header-cta" href="https://github.com/oriyu90" target="_blank" rel="noreferrer">GitHub ↗</a>
+    <div class="header-tools"><span class="locale-indicator" data-locale-indicator>JA</span><a class="pill pill-dark header-cta" href="https://github.com/oriyu90" target="_blank" rel="noreferrer">GitHub ↗</a></div>
   </header>
 
   <main id="top">
@@ -63,13 +65,13 @@
         <span class="jump-no">02</span><div><p>PROFILE</p><h2>作っている人を、<br>もっと知る。</h2><span class="round-arrow">→</span></div>
       </a>
       <a class="jump-card jump-news" href="news.html">
-        <img src="assets/news-signal.webp" alt="お知らせを表現した黄色と黒の立体アート">
+        <img src="assets/news-signal-lime.webp" alt="お知らせを表現した黄緑と黒の立体アート">
         <span class="jump-no">03</span><div><p>NEWS & UPDATES</p><h2>新しい動きを、<br>ここから。</h2><span class="round-arrow">↓</span></div>
       </a>
     </section>
 
     <section class="projects" id="projects">
-      <div class="projects-art" aria-hidden="true"><img src="assets/projects-landscape.webp" alt=""></div>
+      <div class="projects-art" aria-hidden="true"><picture><source media="(prefers-color-scheme: dark)" srcset="assets/projects-dark-lime.webp"><img src="assets/projects-light-lime.webp" alt=""></picture></div>
       <div class="projects-head section-pad reveal">
         <div><p class="eyebrow eyebrow-light"><span></span>PROJECT ARCHIVE</p><h2>つくったもの、<br><em>育てているもの。</em></h2></div>
         <p>音楽、学習、AI、ファイル管理。日常の小さな不便を見つけ、使える形までつくります。カードを選ぶと詳細が開きます。</p>
@@ -80,7 +82,7 @@
     <section class="news section-pad" id="news">
       <div class="section-title reveal"><p class="eyebrow"><span></span>NEWS / 2026</p><h2>お知らせ</h2></div>
       <div class="news-layout reveal">
-        <img src="assets/news-signal.webp" alt="お知らせを表現した立体アート">
+        <img src="assets/news-signal-lime.webp" alt="お知らせを表現した立体アート">
         <div><div id="news-list" class="news-list" data-limit="3"></div><a class="news-more" href="news.html">すべてのお知らせを見る <span>→</span></a></div>
       </div>
     </section>

diff --git a/website/news.html b/website/news.html
@@ -1,16 +1,16 @@
 <!doctype html>
 <html lang="ja">
 <head>
-  <meta charset="utf-8"><meta name="viewport" content="width=device-width, initial-scale=1"><meta name="theme-color" content="#ffd21c">
+  <meta charset="utf-8"><meta name="viewport" content="width=device-width, initial-scale=1"><meta name="theme-color" content="#b8ff2c" media="(prefers-color-scheme: light)"><meta name="theme-color" content="#0d100d" media="(prefers-color-scheme: dark)">
   <meta name="description" content="折田悠希（Yuki_Orita）のアプリ公開・更新情報と公式サイトからのお知らせ。"><meta property="og:title" content="News — Yuki Orita"><meta property="og:description" content="アプリの公開、アップデート、公式サイトからのお知らせ。"><meta property="og:image" content="https://rizi-jp.pages.dev/assets/og.png"><meta name="twitter:card" content="summary_large_image"><title>News — Yuki Orita</title>
-  <link rel="stylesheet" href="styles.css"><script src="content.js" defer></script><script src="app.js" defer></script>
+  <link rel="stylesheet" href="styles.css"><script src="i18n.js" defer></script><script src="content.js" defer></script><script src="app.js" defer></script>
 </head>
 <body class="news-page">
-  <header class="site-header"><a class="brand" href="index.html"><span class="brand-mark">YO</span><span>YUKI ORITA</span></a><nav><a href="index.html#projects">Projects</a><a href="news.html" aria-current="page">News</a><a href="profile.html">Profile</a></nav><a class="pill pill-dark header-cta" href="index.html">Home ←</a></header>
+  <header class="site-header"><a class="brand" href="index.html"><span class="brand-mark">YO</span><span>YUKI ORITA</span></a><nav><a href="index.html#projects">Projects</a><a href="news.html" aria-current="page">News</a><a href="profile.html">Profile</a></nav><div class="header-tools"><span class="locale-indicator" data-locale-indicator>JA</span><a class="pill pill-dark header-cta" href="index.html">Home ←</a></div></header>
   <main>
     <section class="news-hero section-pad">
       <div class="news-hero-copy reveal"><p class="eyebrow"><span></span>NEWS & UPDATES</p><h1>新しい動きを、<br><em>ここから。</em></h1><p>アプリの公開、アップデート、サイトからのお知らせをまとめています。</p></div>
-      <div class="news-hero-art reveal"><img src="assets/news-signal.webp" alt="お知らせを表現した黄色と黒の立体アート"><div><span>LATEST</span><b>2026.08.19</b></div></div>
+      <div class="news-hero-art reveal"><img src="assets/news-signal-lime.webp" alt="お知らせを表現した黄緑と黒の立体アート"><div><span>LATEST</span><b>2026.08.19</b></div></div>
     </section>
     <section class="news-archive section-pad">
       <div class="archive-head"><div><p>01 / ARCHIVE</p><h2>すべてのお知らせ</h2></div><div class="news-filters" role="group" aria-label="お知らせカテゴリ"><button class="active" data-filter="ALL">ALL</button><button data-filter="SITE">SITE</button><button data-filter="APP">APP</button></div></div>

diff --git a/website/profile.html b/website/profile.html
@@ -1,12 +1,12 @@
 <!doctype html>
 <html lang="ja">
 <head>
-  <meta charset="utf-8"><meta name="viewport" content="width=device-width, initial-scale=1"><meta name="theme-color" content="#ffd21c">
+  <meta charset="utf-8"><meta name="viewport" content="width=device-width, initial-scale=1"><meta name="theme-color" content="#b8ff2c" media="(prefers-color-scheme: light)"><meta name="theme-color" content="#0d100d" media="(prefers-color-scheme: dark)">
   <meta name="description" content="折田悠希（Yuki_Orita）のプロフィール。広島県出身の開発者。"><meta property="og:title" content="Profile — Yuki Orita"><meta property="og:description" content="好奇心を、動くものに。折田悠希のプロフィールと開発姿勢。"><meta property="og:image" content="https://rizi-jp.pages.dev/assets/og.png"><meta name="twitter:card" content="summary_large_image"><title>Profile — Yuki Orita</title>
-  <link rel="stylesheet" href="styles.css"><script src="app.js" defer></script>
+  <link rel="stylesheet" href="styles.css"><script src="i18n.js" defer></script><script src="app.js" defer></script>
 </head>
 <body class="profile-page">
-  <header class="site-header"><a class="brand" href="index.html"><span class="brand-mark">YO</span><span>YUKI ORITA</span></a><nav><a href="index.html#projects">Projects</a><a href="news.html">News</a><a href="profile.html" aria-current="page">Profile</a></nav><a class="pill pill-dark header-cta" href="index.html">Home ←</a></header>
+  <header class="site-header"><a class="brand" href="index.html"><span class="brand-mark">YO</span><span>YUKI ORITA</span></a><nav><a href="index.html#projects">Projects</a><a href="news.html">News</a><a href="profile.html" aria-current="page">Profile</a></nav><div class="header-tools"><span class="locale-indicator" data-locale-indicator>JA</span><a class="pill pill-dark header-cta" href="index.html">Home ←</a></div></header>
   <main>
     <section class="profile-hero section-pad">
       <div class="profile-title reveal"><p class="eyebrow"><span></span>ABOUT THE MAKER</p><h1>好奇心を、<br><em>動くものに。</em></h1><p>日常で感じた不便や「こうだったら面白い」を、アプリとして形にしています。</p></div>
